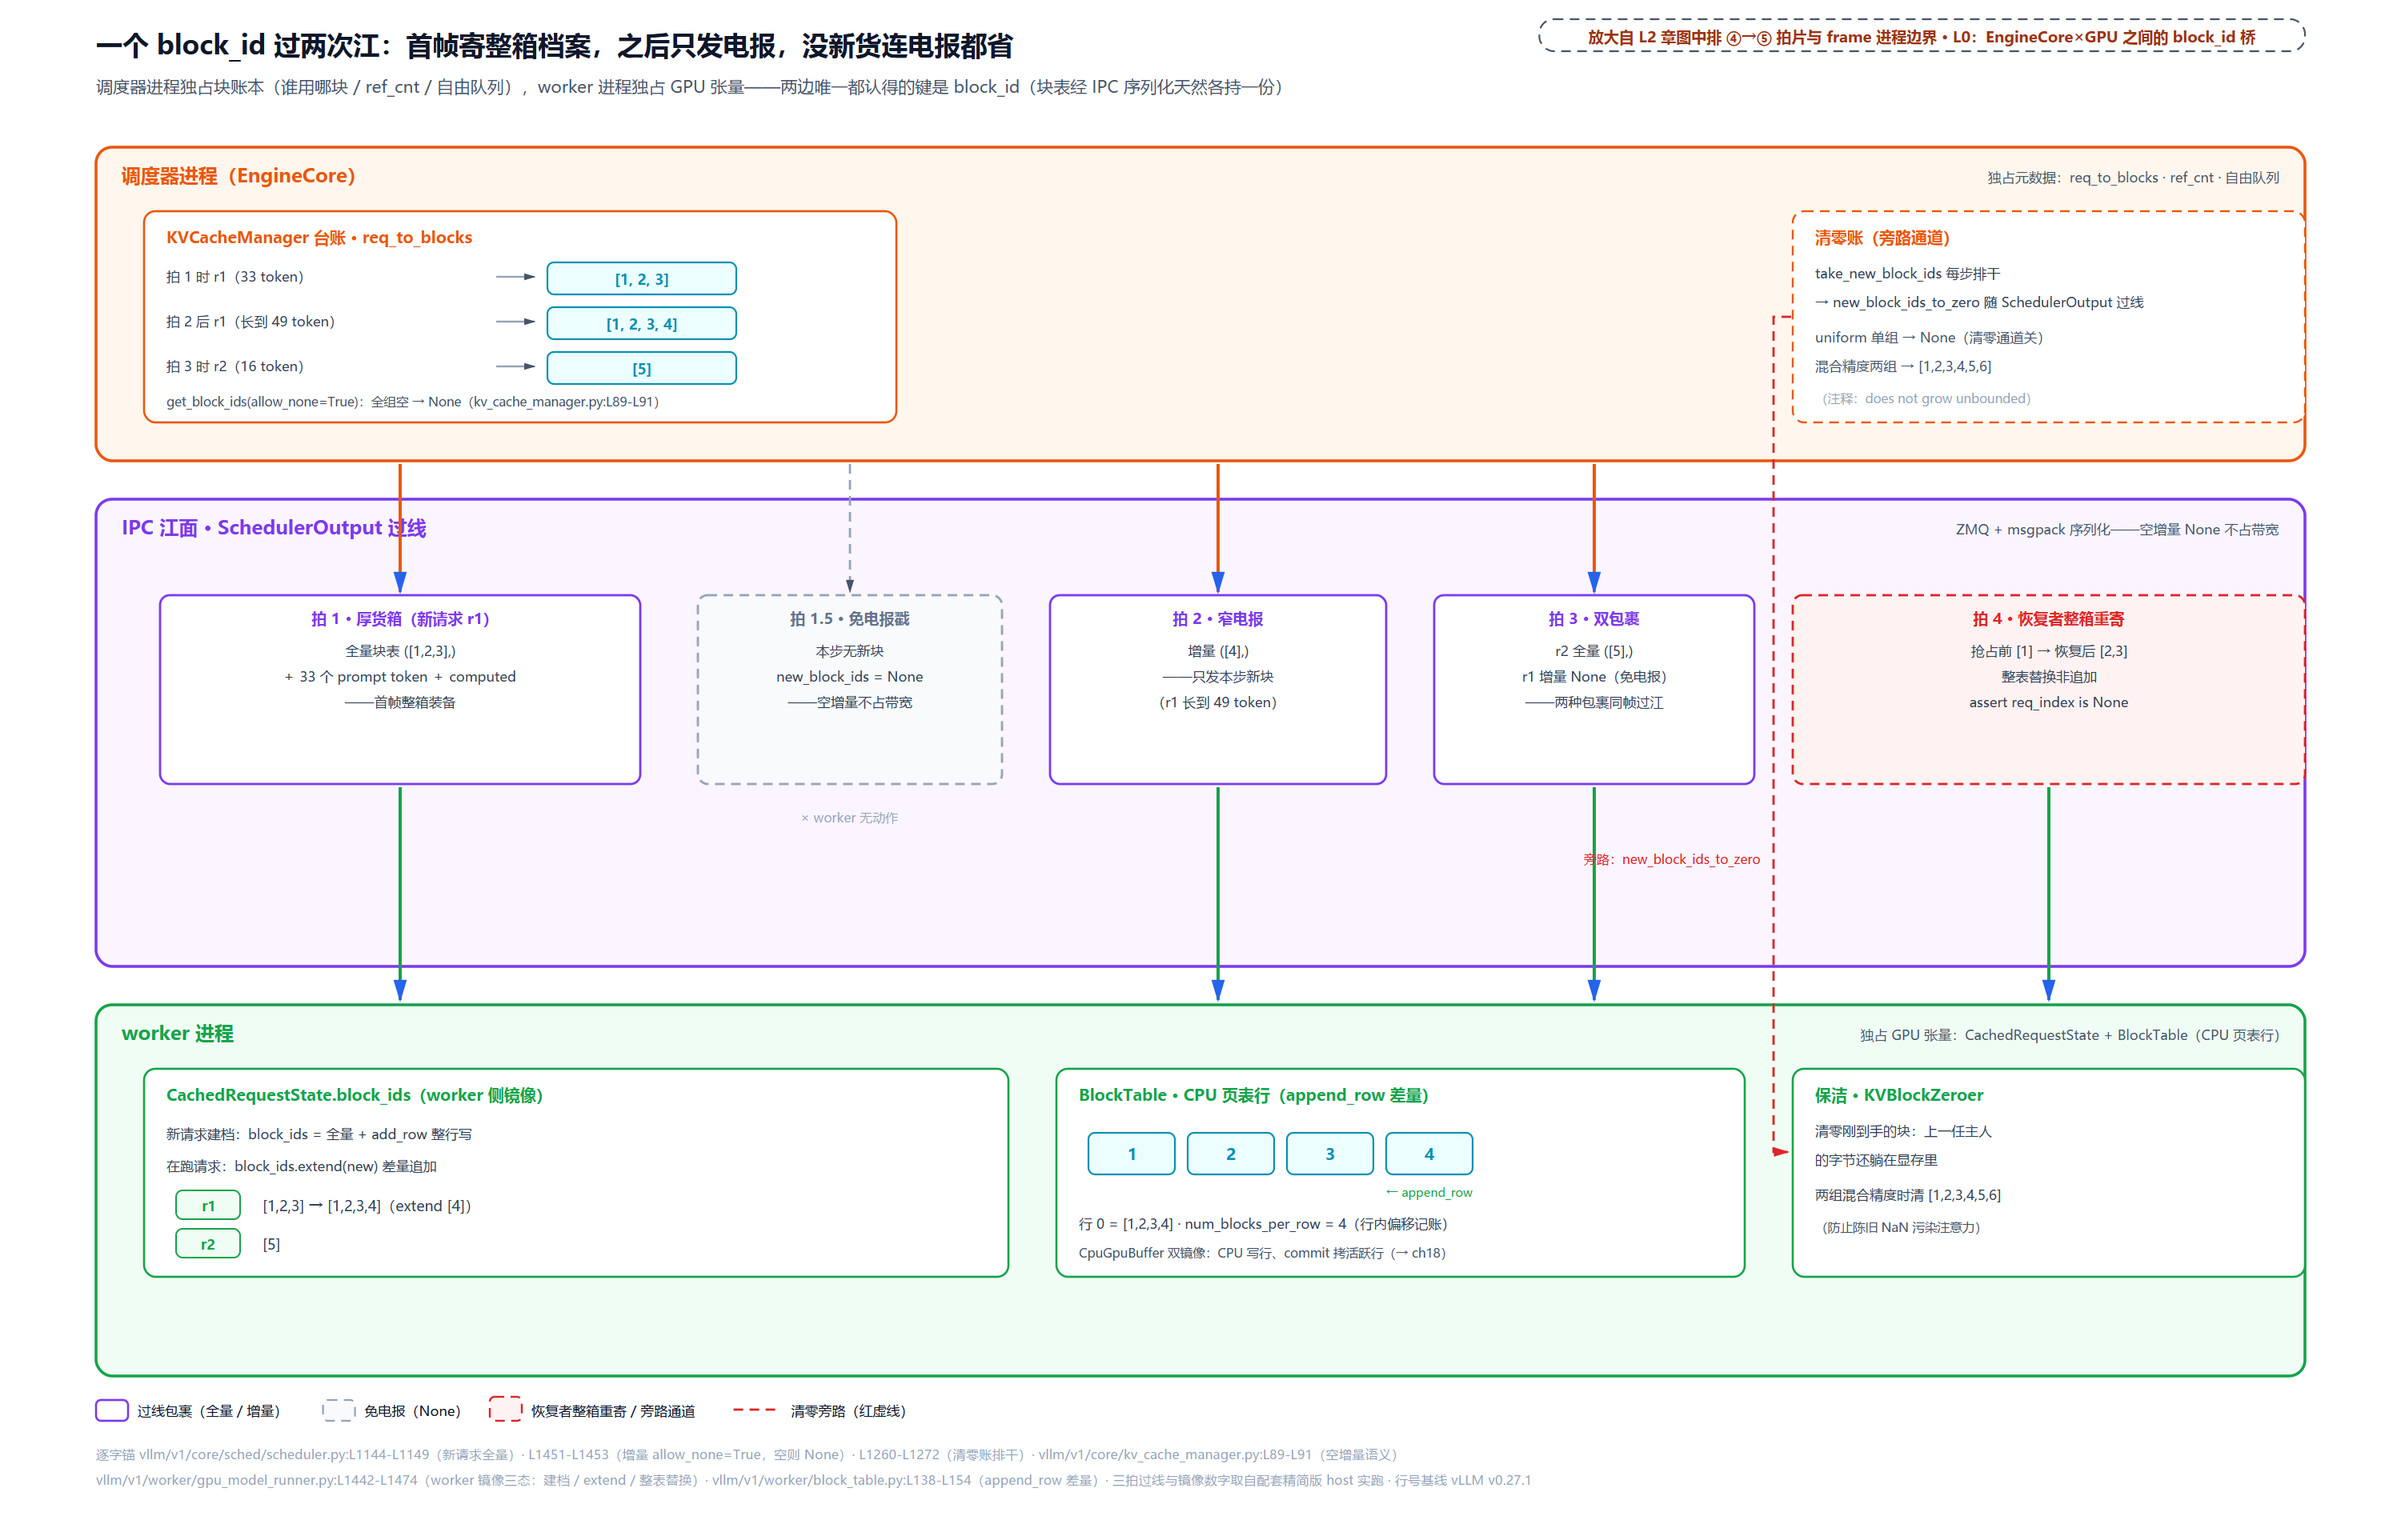
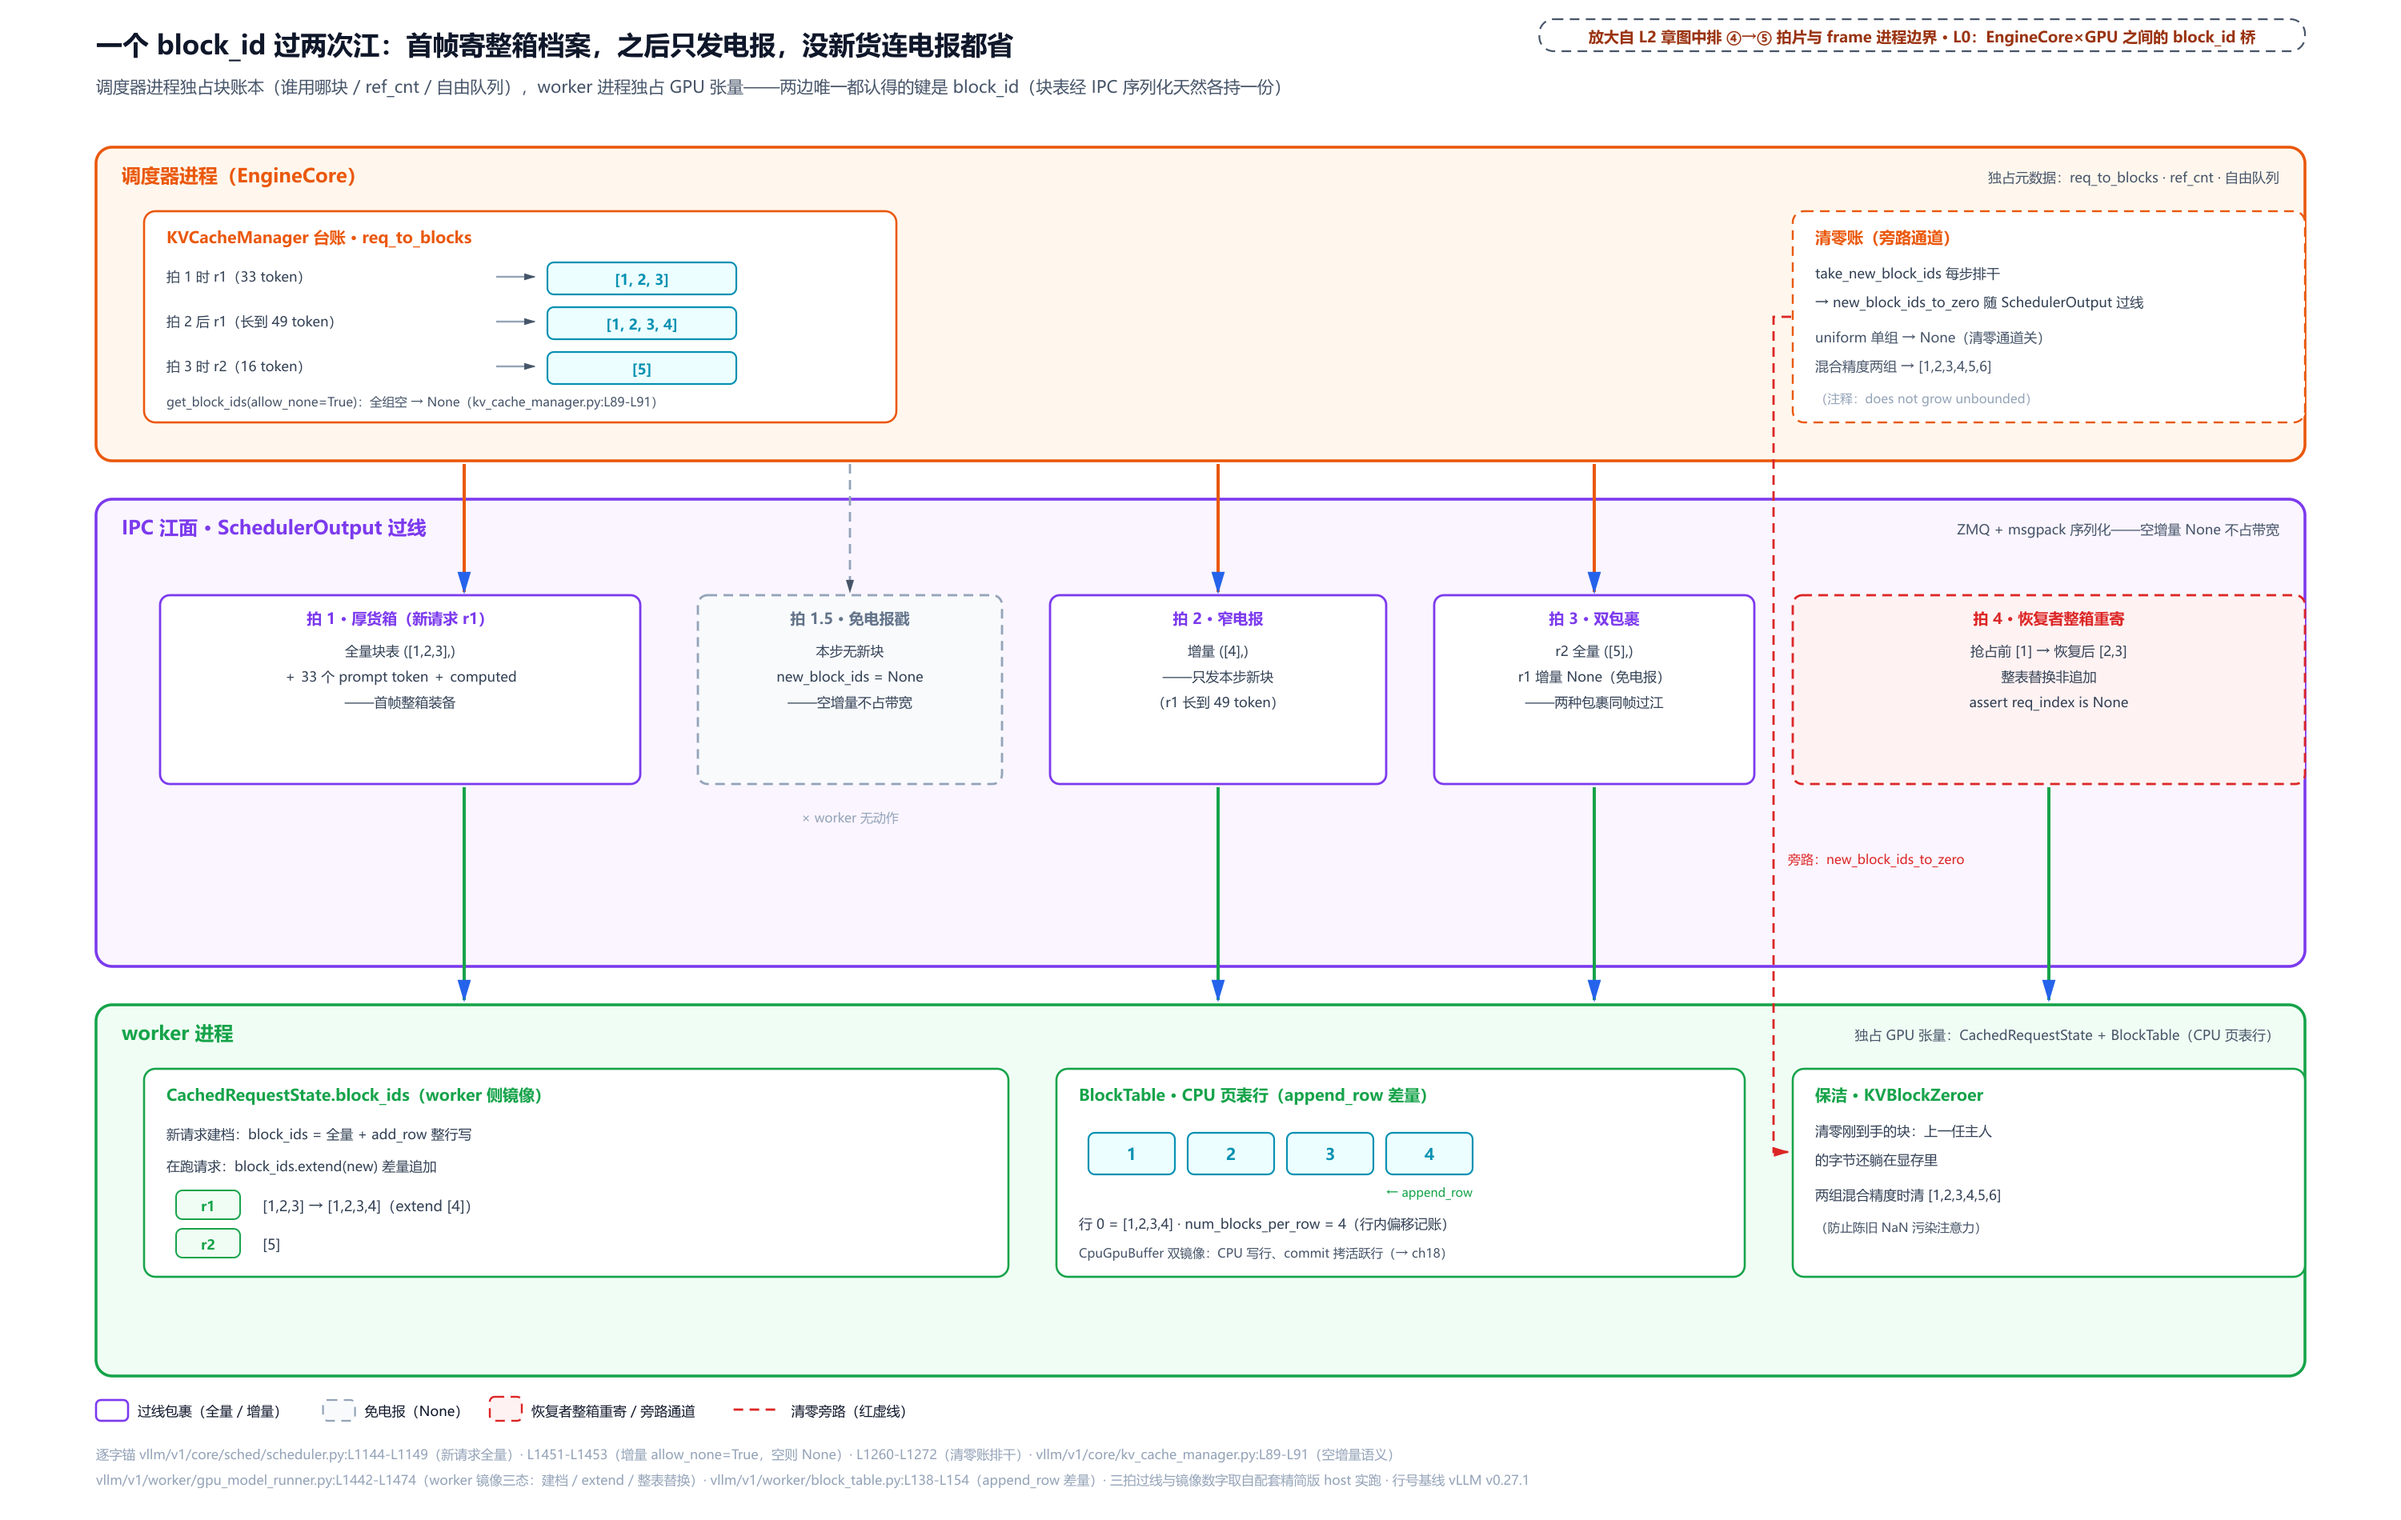
fix(v3 ch13 图系): 5 张几何修复——重叠/穿线/越界/压框 逐张定量修
deepseek-flash 逐张 Read PNG+裁片量过:
- paged-layout: BAR_W 950→898(条右端与红盒重叠 32px)
- block-id-card: 挂环标签 middle→end(「prev」被竖线切开)
- block-id-crossing: 下投竖线 x250→290(穿标题字)+旁路标注 end→start
- page-brick: 砖号垫 12×12 白牌(K/V 分界缝从数字中穿)
- two-legs: 池宽 400→370(第 4 列越出池框 84px)+面板高 560→538(压伏笔条)
其余 5 张量过判干净零改动。全部重渲+亲眼复核+geometry/scaffolding 绿。

diff --git a/instances/vllm/artifacts-v3/ch13-paged-kv/diagrams/gen_ch13-fig-two-legs.py b/instances/vllm/artifacts-v3/ch13-paged-kv/diagrams/gen_ch13-fig-two-legs.py
@@ -39,18 +39,20 @@ lc.rect(BXR - _cw, 12, _cw, 20, '#ffffff', lc.C_MUTE, rx=9, sw=1.1, dash=True)
 lc.text(BXR - _cw / 2, 26.5, _ch, 9.5, lc.C_BEAT_T, 'middle', True, maxw=_cw - 4, tag='chip')
 
 # ---------------- 中：KV 池（砖墙，接 m10 画法） ----------------
-POOL_X, POOL_W = 560, 400
+POOL_X, POOL_W = 560, 370
 POOL_Y, POOL_H = 300, 300
 lc.rect(POOL_X, POOL_Y, POOL_W, POOL_H, '#ffffff', lc.C_GPU_S, rx=8, sw=1.8)
 lc.text(POOL_X + POOL_W / 2, POOL_Y + 22, 'KV 池（每层一张张量）', 11, lc.C_GPU_S, 'middle', True,
         maxw=POOL_W - 20, tag='pool:t')
-BW_, BH_ = 108, 56
+PAD_, BLK_GAP = 22, 10
+BW_ = (POOL_W - 2 * PAD_ - 3 * BLK_GAP) / 4     # 74：四列连同边距与三道缝必须整个落在池内
+BH_ = 56
 BLK_COL = {1: SEG_COL[1], 3: SEG_COL[0], 7: SEG_COL[2]}
 BLK_FILL = {1: SEG_FILL[1], 3: SEG_FILL[0], 7: SEG_FILL[2]}
 BLK_SEG = {1: 1, 3: 0, 7: 2}
 for i, blk in enumerate([0, 1, 2, 3, 4, 5, 6, 7]):
     r, c = divmod(i, 4)
-    bx = POOL_X + 22 + c * (BW_ + 10)
+    bx = POOL_X + PAD_ + c * (BW_ + BLK_GAP)
     by = POOL_Y + 38 + r * (BH_ + 12)
     hot = blk in BLK_COL
     lc.rect(bx, by, BW_, BH_, BLK_FILL.get(blk, '#f8fafc'), BLK_COL.get(blk, '#cbd5e1'),
@@ -71,8 +73,9 @@ lc.text(POOL_X + POOL_W / 2, POOL_Y + POOL_H - 10, '三个热块 = 块表行 [3,
         lc.C_MUTE, 'middle', maxw=POOL_W - 20, tag='pool:n')
 
 # ---------------- 左流：写腿 ----------------
-WL_X, WL_W = MX, 420
-lc.rect(WL_X, 108, WL_W, 560, '#ffffff', SEG_COL[0], rx=8, sw=1.6)
+WL_X, WL_W = MX, 408          # 面板与池之间留出 92px 走廊，容直塞标注（实测 80px）不贴两框边
+PANEL_H = 538                 # 面板底止于 646：F7 条自 658 起，原 560 会压进条内 10px
+lc.rect(WL_X, 108, WL_W, PANEL_H, '#ffffff', SEG_COL[0], rx=8, sw=1.6)
 lc.text(WL_X + WL_W / 2, 132, '写腿 · slot_mapping（直寻址）', 11, SEG_COL[0], 'middle', True,
         maxw=WL_W - 20, tag='wl:t')
 # 48 个 token 点
@@ -133,7 +136,7 @@ lc.text(WL_X + 18, 557, 'int64，逐 token 一个数', 8, lc.C_FAINT, 'start', m
 
 # ---------------- 右流：读腿 ----------------
 RL_X, RL_W = 1020, BXR - 1020
-lc.rect(RL_X, 108, RL_W, 560, '#ffffff', SEG_COL[2], rx=8, sw=1.6)
+lc.rect(RL_X, 108, RL_W, PANEL_H, '#ffffff', SEG_COL[2], rx=8, sw=1.6)
 lc.text(RL_X + RL_W / 2, 132, '读腿 · 块表张量（间接寻址）', 11, SEG_COL[2], 'middle', True,
         maxw=RL_W - 20, tag='rl:t')
 # 块表张量 [4,8]
@@ -167,7 +170,7 @@ lc.text(RL_X + 90, TT_Y + 210, '交 attention metadata builder）', 8, lc.C_MUTE
 HOP_Y = 420
 lc.parrow([(RL_X - 2, HOP_Y), (POOL_X + POOL_W + 4, HOP_Y)], SEG_COL[2], 2.2, 'std')
 lc.text((RL_X + POOL_X + POOL_W) / 2, HOP_Y - 14, '翻页：逐块跳着读', 8.5, SEG_COL[2], 'middle',
-        True, maxw=130, tag='rl:hop')
+        True, maxw=RL_X - (POOL_X + POOL_W) - 12, tag='rl:hop')   # 只许占池与面板之间的走廊
 # attention kernel 图标
 AK_Y = 460
 lc.rect(RL_X + 40, AK_Y, RL_W - 80, 70, SEG_FILL[2], SEG_COL[2], rx=8, sw=1.4)
@@ -179,8 +182,8 @@ lc.parrow([(RL_X + 60, TT_Y + 26 + 4 * TT_CH + 4), (RL_X + 60, AK_Y - 4)], SEG_C
 lc.text(RL_X + 66, (TT_Y + 26 + 4 * TT_CH + AK_Y) / 2, '查表', 8, SEG_COL[2], 'start', maxw=50,
         tag='rl:lookup')
 lc.parrow([(RL_X + RL_W - 60, AK_Y - 4), (RL_X + RL_W - 60, HOP_Y + 4)], SEG_COL[2], 1.8, 'std')
-lc.text(RL_X + RL_W - 54, (AK_Y + HOP_Y) / 2 + 8, '取数', 8, SEG_COL[2], 'end', maxw=50,
-        tag='rl:fetch')
+lc.text(RL_X + RL_W - 54, (AK_Y + HOP_Y) / 2 + 8, '取数', 8, SEG_COL[2], 'start', maxw=50,
+        tag='rl:fetch')     # 锚在取数竖线（x=1380）右侧：end 锚会让线从字中间穿过
 
 # ---------------- 汇聚注记 + F7 伏笔（预告 ch22）----------------
 CV_Y = POOL_Y + POOL_H + 24

diff --git a/instances/vllm/artifacts-v3/ch13-paged-kv/diagrams/gen_ch13-fig-block-id-crossing.py b/instances/vllm/artifacts-v3/ch13-paged-kv/diagrams/gen_ch13-fig-block-id-crossing.py
@@ -107,6 +107,9 @@ parcel(P4_X, RIV_Y + 60, P4_W, 118, '拍 3 · 双包裹',
 RS_X, RS_W = 1120, BXR - 1120
 parcel(RS_X, RIV_Y + 60, RS_W, 118, '拍 4 · 恢复者整箱重寄',
        ['抢占前 [1] → 恢复后 [2,3]', '整表替换非追加', 'assert req_index is None'], 'resume')
+# 拍 1 的上下两条下投线让开江面泳道标题（标题 ink 至 x≈270）——共用一个落点 x，
+# 否则同一箱的进出箭会左右错位
+P1_DROP_X = P1_X + P1_W / 2 + 40        # 290：仍在拍 1 箱内（100..400）
 
 # ---------------- worker 泳道内容 ----------------
 CS_X, CS_W = 90, 540
@@ -155,12 +158,12 @@ def vdrop(cx, y1, y2, color, marker='std', dash=False, sw=2.0):
     lc.seg(cx, y1, cx, y2, color, sw, marker, dash)
 
 # 台账 → 拍1/拍2/拍3 包裹顶
-vdrop(P1_X + P1_W / 2, SCH_Y + SCH_H + 2, RIV_Y + 58, lc.C_ENG_S, 'dn')
+vdrop(P1_DROP_X, SCH_Y + SCH_H + 2, RIV_Y + 58, lc.C_ENG_S, 'dn')
 vdrop(P2_X + P2_W / 2, SCH_Y + SCH_H + 2, RIV_Y + 58, '#94a3b8', 'std', dash=True, sw=1.4)
 vdrop(P3_X + P3_W / 2, SCH_Y + SCH_H + 2, RIV_Y + 58, lc.C_ENG_S, 'dn')
 vdrop(P4_X + P4_W / 2, SCH_Y + SCH_H + 2, RIV_Y + 58, lc.C_ENG_S, 'dn')
 # 包裹底 → worker 顶
-vdrop(P1_X + P1_W / 2, RIV_Y + 60 + 118 + 2, WRK_Y - 3, lc.C_GPU_S, 'dn')
+vdrop(P1_DROP_X, RIV_Y + 60 + 118 + 2, WRK_Y - 3, lc.C_GPU_S, 'dn')
 vdrop(P3_X + P3_W / 2, RIV_Y + 60 + 118 + 2, WRK_Y - 3, lc.C_GPU_S, 'dn')
 vdrop(P4_X + P4_W / 2, RIV_Y + 60 + 118 + 2, WRK_Y - 3, lc.C_GPU_S, 'dn')
 vdrop(RS_X + RS_W / 2, RIV_Y + 60 + 118 + 2, WRK_Y - 3, lc.C_GPU_S, 'dn')
@@ -170,7 +173,8 @@ lc.text(P2_X + P2_W / 2, RIV_Y + 60 + 118 + 24, '× worker 无动作', 8, '#94a3
 # 清零账旁路：自清零账盒左缘，走 拍4/恢复者小图 之间的竖巷，下投保洁盒
 lc.parrow([(ZRO_X - 1, SCH_Y + 106), (1108, SCH_Y + 106), (1108, WRK_Y + 92), (ZW_X - 3, WRK_Y + 92)],
           lc.C_ABORT, 1.4, 'ab', dash=True)
-lc.text(1100, 540, '旁路：new_block_ids_to_zero', 8, lc.C_ABORT, 'end', maxw=170, tag='bp:lbl')
+# 旁路标注挂到红色竖线（x=1108）右侧：原 end 锚在 x=1100，尾字被拍 4 的下投线（x=996）穿过
+lc.text(1117, 540, '旁路：new_block_ids_to_zero', 8, lc.C_ABORT, 'start', maxw=170, tag='bp:lbl')
 
 # ---------------- 图例 + 页脚 ----------------
 LEG_Y = WRK_Y + WRK_H + 24

diff --git a/instances/vllm/artifacts-v3/ch13-paged-kv/diagrams/gen_ch13-fig-page-brick.py b/instances/vllm/artifacts-v3/ch13-paged-kv/diagrams/gen_ch13-fig-page-brick.py
@@ -130,6 +130,8 @@ for r in range(4):
         lc.rect(bx, by, BW_, BH_, '#ffffff', '#94a3b8', rx=3, sw=0.9)
         lc.rect(bx, by, BW_, BH_ / 2 - 1, F_K, C_K, rx=3, sw=0.7)
         lc.rect(bx, by + BH_ / 2 + 1, BW_, BH_ / 2 - 1, F_V, C_V, rx=3, sw=0.7)
+        # 砖号骑在 K/V 分界缝上会被 K 底边与 V 顶边两条线切开 → 垫一块无描边白牌再写号
+        lc.rect(bx + BW_ / 2 - 6, by + BH_ / 2 - 6, 12, 12, '#ffffff', 'none', rx=3, sw=0)
         lc.text(bx + BW_ / 2, by + BH_ / 2 + 3, str(idx), 7.5, '#475569', 'middle', maxw=30,
                 tag='wb%d' % idx)
 lc.text(MX + 18, WL_Y + 216, '每块上半 K / 下半 V · 共 10 块（0..9）', 8.5, lc.C_MUTE, 'start',

diff --git a/instances/vllm/artifacts-v3/ch13-paged-kv/diagrams/gen_ch13-fig-block-id-card.py b/instances/vllm/artifacts-v3/ch13-paged-kv/diagrams/gen_ch13-fig-block-id-card.py
@@ -72,7 +72,8 @@ prev_y = CY + HDR + 4 * ROW_H + 12
 next_y = CY + HDR + 5 * ROW_H + 12
 for ry, lab in [(prev_y, 'prev'), (next_y, 'next')]:
     lc.circle(CX + 4, ry, RING_R, lc.C_KV_S, 1.8, dash=False)
-    lc.text(CX + 2, ry - 16, lab, 8, lc.C_KV_S, 'middle', maxw=60, tag='ring' + lab)
+    # 标签整体退到卡片左描边（x=CX=190）外侧：原先居中在边框上，字被竖线从中切开
+    lc.text(CX - 10, ry - 16, lab, 8, lc.C_KV_S, 'end', maxw=60, tag='ring' + lab)
 
 # 左邻居：fake_head 哨兵（六边形）
 HX, HY = 88, prev_y - 13          # 六边形右顶点 (HX+22, HY+13) 与 prev 挂环同高
